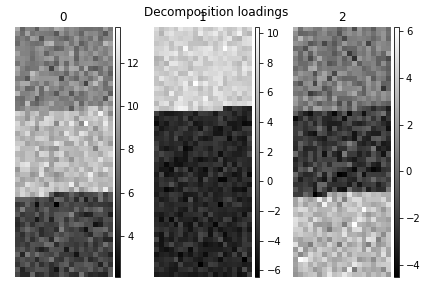
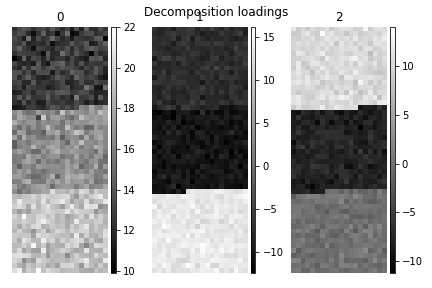
Make SVD in the example more interesting

diff --git a/doc/user_guide/cluster.rst b/doc/user_guide/cluster.rst
@@ -140,12 +140,12 @@ might work in practice.
     >>> import hyperspy.api as hs
     >>> from sklearn.datasets import make_blobs
     >>> data = make_blobs(
-    >>>         n_samples=500,
-    >>>         n_features=3,
-    >>>         shuffle=False)[0].reshape(50, 10, 4)
+    >>>         n_samples=1000,
+    >>>         n_features=100,
+    >>>         centers=3,
+    >>>         shuffle=False,
+    >>>         random_state=1)[0].reshape(50, 20, 100)
     >>> s = hs.signals.Signal1D(data)
-
-
 
 .. code-block:: python
 
@@ -164,25 +164,34 @@ the 1D signal modulates slightly.
     >>> s.plot()
 
 
-If we then perform PCA we start to see the 3 regions a little more clearly but,
-in general, it is not easy to interpret those results.
+Let's perform SVD to reduce the dimensionality of the dataset by exploiting
+redundancies:
+
 
 .. code-block:: python
 
     >>> s.decomposition()
+    >>> s.plot_explained_variance_ratio()
+
+.. image:: images/clustering_scree_plot.png
+
+From the scree plot we deduce that, as expected, that the dataset can be reduce
+to 3 components. Let's plot their loadings:
+
+.. code-block:: python
+
     >>> s.plot_decomposition_loadings(comp_ids=3, axes_decor="off")
 
 .. image:: images/clustering_decomposition_loadings.png
 
-We can then perform cluster analysis of decomposition results, to find similar regions
+In the SVD loading we can identify 3 regions, but they are mixed in the components.
+Let's perform cluster analysis of decomposition results, to find similar regions
 and the representative features in those regions.
-This indentifies 3 regions and the average 1D signals in those regions
 
 .. code-block:: python
 
     >>> s.cluster_analysis(cluster_source="decomposition", number_of_components=3)
     >>> s.plot_cluster_labels(axes_decor="off")
-
 
 .. image:: images/clustering_labels.png
 
@@ -292,9 +301,9 @@ Internally they are split into a ``cluster_labels`` array to help plotting and m
        0, 0, 0, 0, 0, 0, 0, 0, 0, 0])
 
 
-In this case we know there are 3 signals but for real examples it is difficult
-to define the number of clusters to use. A number of metrics, such as elbow,
-Silhouette and Gap can be used to determine the optimal number of clusters.
+In this case we know there are 3 cluster, but for real examples the number of
+clusters is not known *a priori*. A number of metrics, such as elbow,
+Silhouette and Gap can be used to estimate the optimal number of clusters.
 The elbow method measures the sum-of-squares of the distances within a
 cluster and, as for the PCA decomposition, an "elbow" or point where the gains
 diminish with increasing number of clusters indicates the ideal number of
